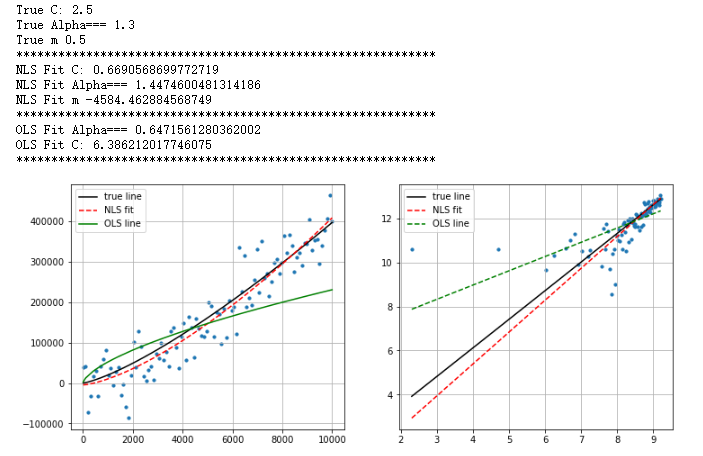
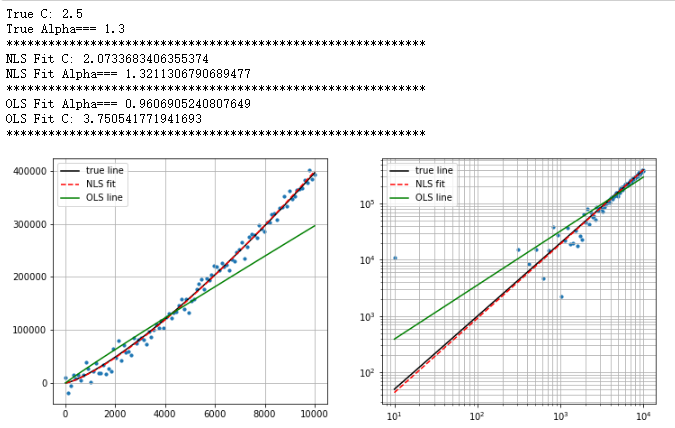
loglog and yscale log

diff --git a/source/0_SNA/50_plots.rst b/source/0_SNA/50_plots.rst
@@ -404,30 +404,32 @@ OLS log plot
     from scipy.optimize import curve_fit
 
     ## 生成数据
-    def func(x, a, b, c):
-        return a * x**b + c
+    def func(x, a, b):
+        return a * x**b
 
     a = 2.5
     b = 1.3
-    c = 0.5
 
-    noise_sigma = 50000
+    noise_sigma = 10000
 
     xdata = np.linspace(10, 10000, 100) # truex
-    y = func(xdata,a,b,c) # true y 
-    ydata = y + np.random.normal(0,noise_sigma,size=len(xdata)) # noise y
+    # xdata = np.logspace(1, 20, 100)
 
-    print("True C:",a,"\nTrue Alpha===",b,"\nTrue m",c)
+    y = func(xdata,a,b) # true y 
+    ydata = y + np.random.normal(0,noise_sigma,size=len(xdata)) # noise y
+    index = ~(ydata<0)
+
+    print("True C:",a,"\nTrue Alpha===",b)
     print("*"*60)
     ## curve fit 
     popt, pcov = curve_fit(func, xdata, ydata)
 
-    yhat1 = [func(i, popt[0],popt[1],popt[2]) for i in xdata]
-    print("NLS Fit C:",popt[0],"\nNLS Fit Alpha===",popt[1],"\nNLS Fit m",popt[2])
+    yhat1 = [func(i, popt[0],popt[1]) for i in xdata]
+    print("NLS Fit C:",popt[0],"\nNLS Fit Alpha===",popt[1])
     print("*"*60)
+
     ## ols fit 
     index = ~(ydata<0)
-
     xd = np.log(xdata[index])
     yd = np.log(ydata[index])
 
@@ -439,22 +441,25 @@ OLS log plot
     yhat2 = np.exp(logyhat)
     print("OLS Fit Alpha===",k,"\nOLS Fit C:",m)
     print("*"*60)
+
     ## plot
     fig,ax = plt.subplots(1,2,figsize = (12,5))
 
     ax[0].scatter(xdata,ydata,s=10)
     ax[0].plot(xdata,y,'k',label ="true line" )
     ax[0].plot(xdata,yhat1,'r--',label ="NLS fit" )
-    ax[0].plot(np.exp(xd),yhat2,"g",label ="OLS line")## OLS fit
+    ax[0].plot(xdata[index],yhat2,"g",label ="OLS line")## OLS fit
     ax[0].legend()
     ax[0].grid()
 
-    ax[1].scatter(xd,yd,s=10)
-    ax[1].plot(xd,np.log(y[index])                  ,"k",label ="true line")## 真值
-    ax[1].plot(xd,popt[1]*xd+np.log(popt[0]) ,"r--",label ="NLS fit")## 幂拟合
-    ax[1].plot(xd,k*xd+m                     ,"g--",label ="OLS line")## 幂拟合
-    ax[1].legend()
-    ax[1].grid()
+    ax[1].set_yscale("log")
+    ax[1].set_xscale("log")
+    ax[1].scatter(xdata,ydata,s=10)
+    ax[1].loglog(xdata,y,'k',label ="true line" )
+    ax[1].loglog(xdata,yhat1,'r--',label ="NLS fit" )
+    ax[1].loglog(xdata[index],yhat2,"g",label ="OLS line")## OLS fit
+    ax[1].legend(frameon = True)
+    ax[1].grid(which = "both")
 
 
 .. image:: ./00_img/OLS_Log.png
